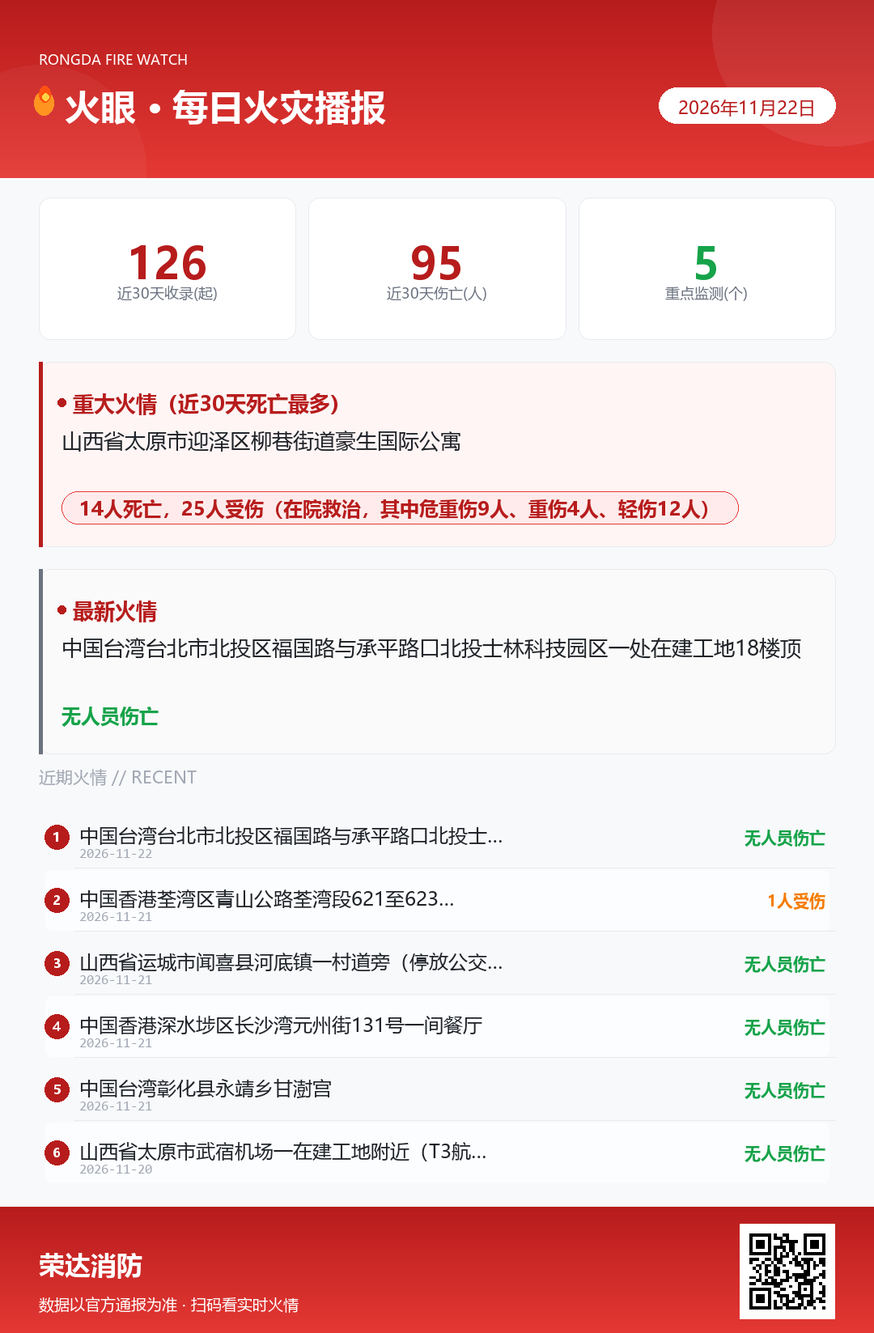
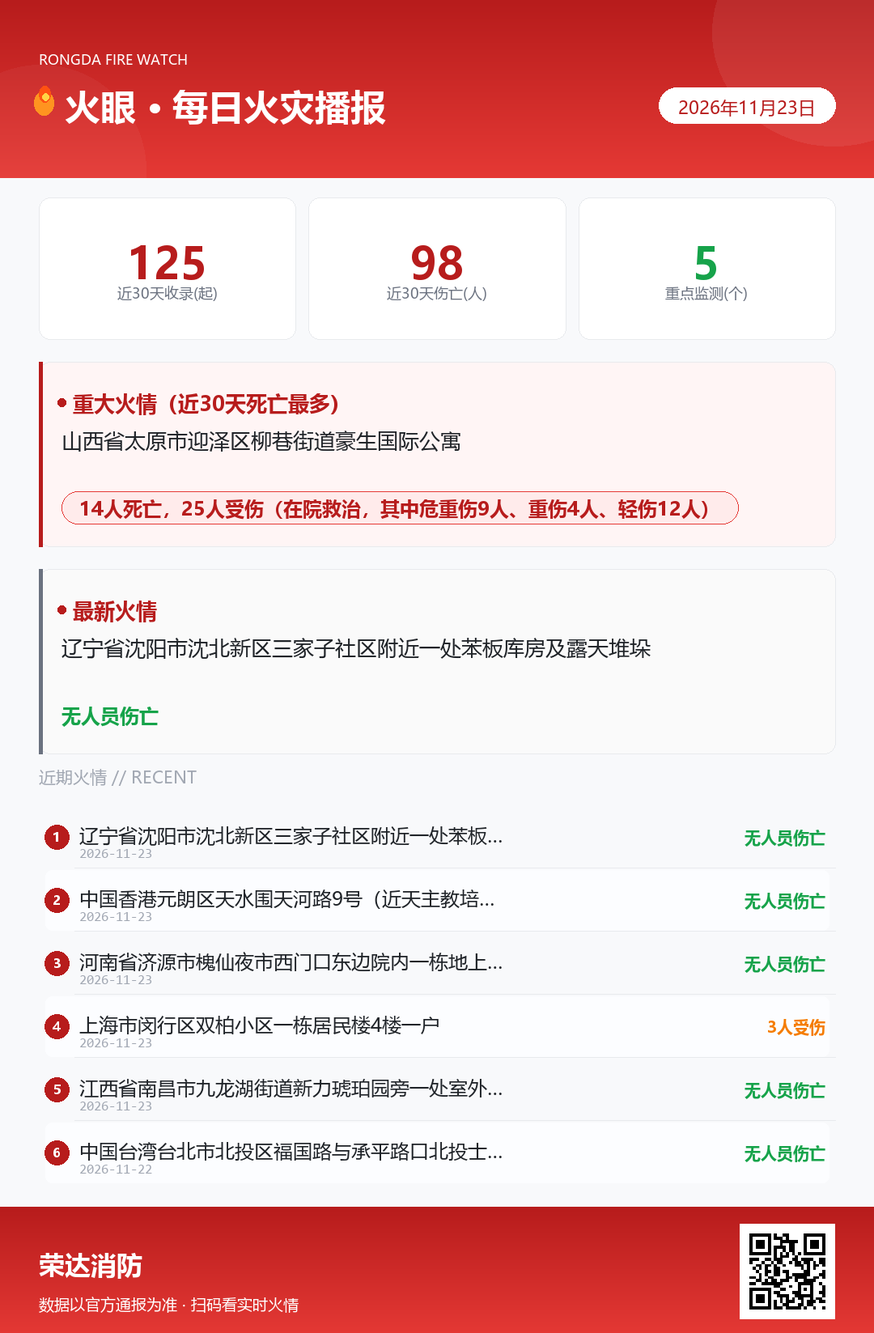
fire-daily-brief 2026-11-24 10:52 roll

diff --git a/index.html b/index.html
@@ -435,15 +435,15 @@
 <!-- ============ DATA（每日自动更新：由自动化脚本重写此对象） ============ -->
 <script id="brief-data" type="application/json">
 {
-  "date": "2026年11月22日",
-  "compileTime": "2026-11-23 10:34",
+  "date": "2026年11月23日",
+  "compileTime": "2026-11-24 09:17",
   "source": "AI 联网检索 · 各地消防救援机构官方通报及权威媒体转载",
   "range": "滚动更新 · 近 30 天",
   "stats": {
     "noReportRegions": 5,
     "rangeLabel": "近30天"
   },
-  "jiangxi": "有官方通报（7·12 南昌居民楼楼道电动车「飞线充电」火情、7·29 上饶玉山县居民楼液化气罐泄漏爆炸1死1伤、8·2 赣州南康工业园工厂刨花房起火、8·2 南昌某小区7楼阳台烟头引燃杂物起火（无伤亡）、8·4 吉安民房柴房火灾、8·6 萍乡一小轿车停放家门口起火（无伤亡）、8·13 吉安市赣江上一船只起火（疑因电池，无伤亡）、8·12 赣州大余花生麸自燃、8·16 南昌小区杂物间起火、8·18 南昌青云谱「网红」麻将馆自动麻将机电气线路故障起火（无伤亡、8·30 宜春经开区江西远东电池电芯老化检测车间火灾（无人员伤亡，1个厂房设备部分受损）、8·28 南昌一餐厅后厨起火（消防自动喷淋系统及时启动扑灭，无人员伤亡）、8·28 吉安市泰和县一民房（祭祀用火不慎，过火约90平方米，无人员伤亡）、9·3 赣州南康区一工厂刨花房突然起火（无人员伤亡，园区微型消防站与员工协力扑救，约5分钟消防到场扑灭）、9·10 萍乡市芦溪县银河镇某村牛棚火灾（疑烟头引燃，无伤亡）、9·10 莲花县坊楼镇某村茶厂操作间起火（用火不当，无伤亡）、9·11 萍乡市开发区福田镇某村居民柴房起火（用火不慎，无伤亡）、9·12 宜春丰城市河洲街道太阳社区杨打垅村一民房火灾（造成3人死亡、1人受伤，宜春市政府已成立“9·12”较大火灾事故调查组）、9·17 南昌市青山湖区顺外路一辆半挂货车起火（凌晨4时40分左右，车上装载硬纸类易燃物，消防到场约半小时扑灭，无人员伤亡）、9·27 赣州大余县南安镇一民房火灾（楼道堆放杂物致2人被困，架拉梯救出，无人员伤亡）、10·8 九江市一处草纸批发店仓库火灾（违规电焊焊渣引燃堆放草纸，无伤亡，过火近300㎡）、10·7 九江市武宁县一公司厂房火灾（工人电焊熔渣引燃橡胶传送带，动火作业人员未持证上岗，被罚2000元，无伤亡）、10·10 南昌市青山湖区东华大道428号一厂区室外独立电动车停车棚起火（无人员伤亡）、10·15 江西某小区一6楼民房客厅起火（一家4口被困，退回主卧关门堵缝避险，全部获救，无伤亡）、10·15 鹰潭市一商铺二楼起火（无人员伤亡，消防到场出水降温排烟）、10·18 鹰潭市一自建民房旁厨房起火（村民烧柴火做饭中途离开、柴火无人看管，厨房被烧毁，无人员伤亡）、10·21 赣州市南康区一辆街边停放三轮车被楼上掉落烟头引燃车斗纸箱起火（路过行人用灭火器扑灭，无人员伤亡）、11·10 景德镇市浮梁县西湖乡一农户木质结构房屋起火（无人员伤亡，邻省安徽祁门县新安镇应急抢险队深夜跨省驰援，与祁门消防救援力量协同扑灭）、11·15 赣州市南康区一家具厂车间水帘柜风机起火（员工用灭火器与水带先行扑灭，无人员伤亡，11·20 赣州消防发布））",
+  "jiangxi": "有官方通报（7·12 南昌居民楼楼道电动车「飞线充电」火情、7·29 上饶玉山县居民楼液化气罐泄漏爆炸1死1伤、8·2 赣州南康工业园工厂刨花房起火、8·2 南昌某小区7楼阳台烟头引燃杂物起火（无伤亡）、8·4 吉安民房柴房火灾、8·6 萍乡一小轿车停放家门口起火（无伤亡）、8·13 吉安市赣江上一船只起火（疑因电池，无伤亡）、8·12 赣州大余花生麸自燃、8·16 南昌小区杂物间起火、8·18 南昌青云谱「网红」麻将馆自动麻将机电气线路故障起火（无伤亡、8·30 宜春经开区江西远东电池电芯老化检测车间火灾（无人员伤亡，1个厂房设备部分受损）、8·28 南昌一餐厅后厨起火（消防自动喷淋系统及时启动扑灭，无人员伤亡）、8·28 吉安市泰和县一民房（祭祀用火不慎，过火约90平方米，无人员伤亡）、9·3 赣州南康区一工厂刨花房突然起火（无人员伤亡，园区微型消防站与员工协力扑救，约5分钟消防到场扑灭）、9·10 萍乡市芦溪县银河镇某村牛棚火灾（疑烟头引燃，无伤亡）、9·10 莲花县坊楼镇某村茶厂操作间起火（用火不当，无伤亡）、9·11 萍乡市开发区福田镇某村居民柴房起火（用火不慎，无伤亡）、9·12 宜春丰城市河洲街道太阳社区杨打垅村一民房火灾（造成3人死亡、1人受伤，宜春市政府已成立“9·12”较大火灾事故调查组）、9·17 南昌市青山湖区顺外路一辆半挂货车起火（凌晨4时40分左右，车上装载硬纸类易燃物，消防到场约半小时扑灭，无人员伤亡）、9·27 赣州大余县南安镇一民房火灾（楼道堆放杂物致2人被困，架拉梯救出，无人员伤亡）、10·8 九江市一处草纸批发店仓库火灾（违规电焊焊渣引燃堆放草纸，无伤亡，过火近300㎡）、10·7 九江市武宁县一公司厂房火灾（工人电焊熔渣引燃橡胶传送带，动火作业人员未持证上岗，被罚2000元，无伤亡）、10·10 南昌市青山湖区东华大道428号一厂区室外独立电动车停车棚起火（无人员伤亡）、10·15 江西某小区一6楼民房客厅起火（一家4口被困，退回主卧关门堵缝避险，全部获救，无伤亡）、10·15 鹰潭市一商铺二楼起火（无人员伤亡，消防到场出水降温排烟）、10·18 鹰潭市一自建民房旁厨房起火（村民烧柴火做饭中途离开、柴火无人看管，厨房被烧毁，无人员伤亡）、10·21 赣州市南康区一辆街边停放三轮车被楼上掉落烟头引燃车斗纸箱起火（路过行人用灭火器扑灭，无人员伤亡）、11·10 景德镇市浮梁县西湖乡一农户木质结构房屋起火（无人员伤亡，邻省安徽祁门县新安镇应急抢险队深夜跨省驰援，与祁门消防救援力量协同扑灭）、11·15 赣州市南康区一家具厂车间水帘柜风机起火（员工用灭火器与水带先行扑灭，无人员伤亡，11·20 赣州消防发布）、11·23 南昌市九龙湖街道新力琥珀园旁一室外垃圾堆垛起火（燃烧废弃塑料纸壳，过火350平方米，无人员伤亡，南昌市消防救援局《火情通报》；网传“3名消防员牺牲”经核实为虚假信息））",
   "megacities": [
     {
       "name": "北京市",
@@ -451,7 +451,7 @@
     },
     {
       "name": "上海市",
-      "status": "有官方通报（7·28/7·31 多起居民楼起火、8·4 闵行中春路单位建筑起火、8·7 虹口新市南路小区非机动车起火、8·10 浦东万安街路边车辆起火、8·17 G2京沪高速面包车起火、8·19 青浦盈浦街道居民顶楼起火、8·19 G1503绕城高速集卡追尾起火、8·28 浦东张江松涛路单位实验室起火、8·30 松江车墩镇松南城善德苑小区居民家中起火（无伤亡、9·1 凌晨浦东新区一社区居民楼6楼火情（2人送医）、9·1 杨浦新江湾城时代花园小区居民楼起火（无伤亡；9·1 松江区明中苑小区室外非机动车停车区域多辆非机动车烧毁（无伤亡、9·7 杨浦区殷行路近军工路小区垃圾房起火（无伤亡）、9·18 松江区泗泾镇方泗公路一辆新能源车追尾后起火燃烧（无人员伤亡）、9·28 浦东新区高青路一小区室外非机动车停车棚起火，多辆非机动车烧毁（无伤亡）、9·29 静安区天通庵路一工地内仓库起火（无伤亡）、9·29 崧泽高架平板牵引车起火（无伤亡）、10·9 宝山区上海大学南区学生公寓一女生宿舍起火（无人员伤亡）、10·9 青浦区城中西路一居民楼顶楼民宅起火（无人员伤亡报告））、10·12 杨浦区翔殷路791弄兰花新村小区一居民家中起火（2人送医，情况稳定、10·14 徐汇区天平街道一老式居民楼凌晨火情（充电宝故障热失控，无伤亡）、10·15 嘉定区沪宜公路近双丁路一处室外垃圾堆起火（燃烧垃圾渔网等杂物，无伤亡）、10·16 嘉定区曹安公路近联群路一区域起火（夜间露天区域起火，无伤亡）、10·17 杨浦区控江六村小区底楼一居民家中起火（无伤亡，一辆电动自行车烧毁）、10·17 S1迎宾高速近启航路出口匝道一轿车起火（无伤亡）、10·18 杨浦区殷行路430弄小区居民家中起火（无伤亡，原因调查中）、10·22 普陀区杏山路近梅岭南路一沿街面馆起火（无伤亡，起因调查中）、10·23 宝山区岭南路1288弄岭南雅苑一顶楼复式居民家起火（火势较大，无人员伤亡，原因调查中）、10·24 松江区新育路750弄雅鹿新苑二期小区一居民家起火（底楼住户，无人员伤亡，原因调查中、10·21 奉贤区一小区停车场居民擅自用转接头接新能源汽车充电桩给电动自行车充电引发火灾（充电桩与电动自行车烧损烧毁，无人员伤亡）、10·25 静安区平型关路2199弄小区非机动车停放区域起火（6辆电动自行车烧毁，无人员伤亡））、10·28 北横通道东向西转中环匝道口一面包车车头起火（晚高峰，临时封一根车道、后方拥堵约4公里，无伤亡）、10·28 G1503 绕城高速内圈近重固立交处一装载纸板小货车行驶中起火（车内2人及时下车无伤，18时许处置完毕，无伤亡）、10·31 嘉定区温宿路城中路桃园小区一底楼居民家起火（外立面2楼至顶楼熏黑、多户玻璃碎裂与空调外机烧毁，无人员伤亡，原因调查中）、11·01 闵行区金都路都会路路口一轿车撞绿化带侧翻后车头起火（车内人员及时撤出，无伤亡，原因调查中）、11·02 浦东新区定水路50弄西镇小区某号3楼一户居民家起火（窗玻璃烧碎坠地，3楼至顶楼外立面与空调外机熏黑，无人员伤亡，原因调查中）、11·02 静安区上海大学延长路校区一处实验室在抢险救援过程中发生爆炸（涉事学生轻微伤、无人死亡，原因调查中）、11·03 嘉定区海波路一公司临时搭建板房起火（燃烧物为板房内堆放杂物和垃圾，无人员伤亡，原因调查中）、11·06 虹口区四达路58弄小区一住宅起火（疑空调外机起火，明火很快被扑灭，无人员伤亡，原因正在调查中、11·08 浦东新区锦绣路近花木路一停车场内单层房屋起火（屋内有明火蹿出、烟雾随高湿空气弥散至周边道路，社区消防站先期铺设水带扑救，无人员伤亡，原因调查中）、11·09 浦东新区万农路附近一种植大棚起火（上午11时许，多辆消防车到场铺设水带出水扑救、明火很快被扑灭，无人员伤亡，原因调查中、11·13 浦东新区浦电路一沿街楼栋起火（无人员伤亡，原因调查中）、11·13 S20外环内圈近顾戴路一轿车起火（车辆烧毁，无人员伤亡，原因调查中）、11·14 闵行区虹梅南路高架锦梅路上匝道处一车辆起火（清晨6时30分许，无人员伤亡，原因调查中）、11·20 浦东新区申江南路近坦直路一沿街建筑起火（无人员伤亡，原因调查中）、11·20 杨浦区控江路1670弄14号2楼一居民家起火（无人员伤亡，原因调查中））"
+      "status": "有官方通报（7·28/7·31 多起居民楼起火、8·4 闵行中春路单位建筑起火、8·7 虹口新市南路小区非机动车起火、8·10 浦东万安街路边车辆起火、8·17 G2京沪高速面包车起火、8·19 青浦盈浦街道居民顶楼起火、8·19 G1503绕城高速集卡追尾起火、8·28 浦东张江松涛路单位实验室起火、8·30 松江车墩镇松南城善德苑小区居民家中起火（无伤亡、9·1 凌晨浦东新区一社区居民楼6楼火情（2人送医）、9·1 杨浦新江湾城时代花园小区居民楼起火（无伤亡；9·1 松江区明中苑小区室外非机动车停车区域多辆非机动车烧毁（无伤亡、9·7 杨浦区殷行路近军工路小区垃圾房起火（无伤亡）、9·18 松江区泗泾镇方泗公路一辆新能源车追尾后起火燃烧（无人员伤亡）、9·28 浦东新区高青路一小区室外非机动车停车棚起火，多辆非机动车烧毁（无伤亡）、9·29 静安区天通庵路一工地内仓库起火（无伤亡）、9·29 崧泽高架平板牵引车起火（无伤亡）、10·9 宝山区上海大学南区学生公寓一女生宿舍起火（无人员伤亡）、10·9 青浦区城中西路一居民楼顶楼民宅起火（无人员伤亡报告））、10·12 杨浦区翔殷路791弄兰花新村小区一居民家中起火（2人送医，情况稳定、10·14 徐汇区天平街道一老式居民楼凌晨火情（充电宝故障热失控，无伤亡）、10·15 嘉定区沪宜公路近双丁路一处室外垃圾堆起火（燃烧垃圾渔网等杂物，无伤亡）、10·16 嘉定区曹安公路近联群路一区域起火（夜间露天区域起火，无伤亡）、10·17 杨浦区控江六村小区底楼一居民家中起火（无伤亡，一辆电动自行车烧毁）、10·17 S1迎宾高速近启航路出口匝道一轿车起火（无伤亡）、10·18 杨浦区殷行路430弄小区居民家中起火（无伤亡，原因调查中）、10·22 普陀区杏山路近梅岭南路一沿街面馆起火（无伤亡，起因调查中）、10·23 宝山区岭南路1288弄岭南雅苑一顶楼复式居民家起火（火势较大，无人员伤亡，原因调查中）、10·24 松江区新育路750弄雅鹿新苑二期小区一居民家起火（底楼住户，无人员伤亡，原因调查中、10·21 奉贤区一小区停车场居民擅自用转接头接新能源汽车充电桩给电动自行车充电引发火灾（充电桩与电动自行车烧损烧毁，无人员伤亡）、10·25 静安区平型关路2199弄小区非机动车停放区域起火（6辆电动自行车烧毁，无人员伤亡））、10·28 北横通道东向西转中环匝道口一面包车车头起火（晚高峰，临时封一根车道、后方拥堵约4公里，无伤亡）、10·28 G1503 绕城高速内圈近重固立交处一装载纸板小货车行驶中起火（车内2人及时下车无伤，18时许处置完毕，无伤亡）、10·31 嘉定区温宿路城中路桃园小区一底楼居民家起火（外立面2楼至顶楼熏黑、多户玻璃碎裂与空调外机烧毁，无人员伤亡，原因调查中）、11·01 闵行区金都路都会路路口一轿车撞绿化带侧翻后车头起火（车内人员及时撤出，无伤亡，原因调查中）、11·02 浦东新区定水路50弄西镇小区某号3楼一户居民家起火（窗玻璃烧碎坠地，3楼至顶楼外立面与空调外机熏黑，无人员伤亡，原因调查中）、11·02 静安区上海大学延长路校区一处实验室在抢险救援过程中发生爆炸（涉事学生轻微伤、无人死亡，原因调查中）、11·03 嘉定区海波路一公司临时搭建板房起火（燃烧物为板房内堆放杂物和垃圾，无人员伤亡，原因调查中）、11·06 虹口区四达路58弄小区一住宅起火（疑空调外机起火，明火很快被扑灭，无人员伤亡，原因正在调查中、11·08 浦东新区锦绣路近花木路一停车场内单层房屋起火（屋内有明火蹿出、烟雾随高湿空气弥散至周边道路，社区消防站先期铺设水带扑救，无人员伤亡，原因调查中）、11·09 浦东新区万农路附近一种植大棚起火（上午11时许，多辆消防车到场铺设水带出水扑救、明火很快被扑灭，无人员伤亡，原因调查中、11·13 浦东新区浦电路一沿街楼栋起火（无人员伤亡，原因调查中）、11·13 S20外环内圈近顾戴路一轿车起火（车辆烧毁，无人员伤亡，原因调查中）、11·14 闵行区虹梅南路高架锦梅路上匝道处一车辆起火（清晨6时30分许，无人员伤亡，原因调查中）、11·20 浦东新区申江南路近坦直路一沿街建筑起火（无人员伤亡，原因调查中）、11·20 杨浦区控江路1670弄14号2楼一居民家起火（无人员伤亡，原因调查中）、11·23 闵行区双柏小区一居民楼4楼住户起火（1名老人被困空调外机平台获救，3人受伤、暂无生命危险，原因调查中））"
     },
     {
       "name": "广州市",
@@ -463,13 +463,13 @@
     }
   ],
   "case": {
-    "date": "2026-11-22",
-    "location": "中国台湾台北市北投区福国路与承平路口北投士林科技园区一处在建工地18楼顶",
-    "category": "其他",
-    "summary": "11月22日晚8时37分，台北市消防局获报北投士林科技园区福国路、承平路口一处在建工地顶楼发生火警，火烟直窜天际。消防人员到场后抢救并疏散现场人员。台北市消防局累计出动5辆指挥车、27辆消防车、2辆救护车，共102名救灾人员及1架无人机，并请求新北市消防局支援70米云梯车及3辆水库车。火势一度由18楼顶向下延烧至16楼，消防人员部署水线阻绝扩大，晚间11时10分将火扑灭。环保局同步启动空气品质监测，以模式模拟烟雾飘散方向，影响范围含台北市北投、士林及新北市五股、芦洲、淡水、八里，提醒附近民众尽量减少外出。火灾未造成人员伤亡，起火原因待调查厘清。",
+    "date": "2026-11-23",
+    "location": "辽宁省沈阳市沈北新区三家子社区附近一处苯板库房及露天堆垛",
+    "category": "仓储/物流",
+    "summary": "11月23日13时48分，沈阳市消防救援支队指挥中心接到报警，沈北新区三家子社区附近发生火灾。支队指挥中心立即调派灭火救援力量赶赴现场处置。经侦察，现场为苯板（聚苯乙烯泡沫板）库房和露天堆垛起火，火势已得到有效控制，未波及周边居民楼、商铺等建筑。现场无人员伤亡，起火原因及财产损失仍在调查统计中。",
     "casualty": "无人员伤亡",
-    "cause": "起火原因待调查厘清（台北市消防局）",
-    "src": "中央社（2026-11-22，记者黄丽芸、萧博文、杨淑闵，据台北市消防局通报及台北市政府新闻讯息）"
+    "cause": "起火原因调查中（沈阳市消防救援支队）",
+    "src": "沈阳消防火情通报（2026-11-23 14:56，沈阳市消防救援支队指挥中心）"
   },
   "tips": [
     "立即清理家中及楼道囤积杂物、神位香烛远离可燃物，独居老人家庭重点上门排查——近30天住宅致死多因杂物阴燃：香港黄大仙11·15单位杂物堆至天花板、消防循烟头或香烛引燃方向调查致1死1伤约300人疏散，天水围11·07香薰点燃杂物致67岁户主死亡。",
@@ -488,6 +488,51 @@
     "媒体转载内容均注明原始官方来源。"
   ],
   "history": [
+    {
+      "date": "2026-11-23",
+      "location": "辽宁省沈阳市沈北新区三家子社区附近一处苯板库房及露天堆垛",
+      "category": "仓储/物流",
+      "summary": "11月23日13时48分，沈阳市消防救援支队指挥中心接到报警，沈北新区三家子社区附近发生火灾。支队指挥中心立即调派灭火救援力量赶赴现场处置。经侦察，现场为苯板（聚苯乙烯泡沫板）库房和露天堆垛起火，火势已得到有效控制，未波及周边居民楼、商铺等建筑。现场无人员伤亡，起火原因及财产损失仍在调查统计中。",
+      "casualty": "无人员伤亡",
+      "cause": "起火原因调查中（沈阳市消防救援支队）",
+      "src": "沈阳消防火情通报（2026-11-23 14:56，沈阳市消防救援支队指挥中心）"
+    },
+    {
+      "date": "2026-11-23",
+      "location": "中国香港元朗区天水围天河路9号（近天主教培圣中学对开）一处露天杂物堆放点",
+      "category": "其他",
+      "summary": "11月23日下午1时39分，警方接报天水围天河路9号、近天主教培圣中学对开有胶箱及木板起火冒烟。消防到场后7分钟内将火救熄，火警中无人受伤。起火位置附近有大量白色发泡胶箱及杂物，火势一度猛烈并冒出黑烟；有两名途人在消防车赶到前手持灭火筒协助扑救。经初步调查，相信因有未熄灭的烟头点燃杂物肇祸。",
+      "casualty": "无人员伤亡",
+      "cause": "初步调查相信为未熄灭烟头点燃杂物（警方及消防初步调查）",
+      "src": "香港01（2026-11-23，据警方及消防初步调查）"
+    },
+    {
+      "date": "2026-11-23",
+      "location": "河南省济源市槐仙夜市西门口东边院内一栋地上四层砖混商业楼一层家居商铺",
+      "category": "商场/市场",
+      "summary": "11月23日7时54分，槐仙夜市西门口东边院内冒烟。济源市消防救援局立即调派辖区消防救援力量赶赴现场，8时01分力量到场。经侦察，起火建筑为地上四层砖混商业楼一层某家居商铺，过火面积约20平方米，燃烧物质为床上用品等纺织物。9时07分处置完毕，无人员伤亡，周边多家店铺外立面被明火熏黑，火灾原因正在调查中。",
+      "casualty": "无人员伤亡",
+      "cause": "火灾原因正在调查中（济源市消防救援局）",
+      "src": "济源市消防救援局《火情通报》（2026-11-23 9时45分发布，经新浪财经、腾讯新闻转载）"
+    },
+    {
+      "date": "2026-11-23",
+      "location": "上海市闵行区双柏小区一栋居民楼4楼一户",
+      "category": "住宅/民房",
+      "summary": "11月23日上午7时许，闵行区双柏小区内一栋居民楼4楼突发火情，冒出的浓烟很快惊动周边居民。起火初期，楼内一名男性年长者和一名中年女子自行从起火楼层脱困，两人不同程度受浓烟呛伤和体表灼伤；火势与浓烟封住单元逃生通道，一名年迈女性来不及撤离，爬到4楼室外空调外机平台上挥手呼救。辖区消防救援人员到场后一边扑救一边架设救援装备，将被困老人安全转移至楼下。现场明火很快被扑灭，3名伤者均已在医院接受进一步检查和治疗，暂无生命危险，起火原因由相关部门进一步调查中。",
+      "casualty": "3人受伤（2人浓烟呛伤及体表灼伤、1名老人被困获救，均在医院检查，暂无生命危险）",
+      "cause": "起火原因相关部门正在进一步调查中",
+      "src": "新民晚报（2026-11-24，记者徐驰，现场采访报道）"
+    },
+    {
+      "date": "2026-11-23",
+      "location": "江西省南昌市九龙湖街道新力琥珀园旁一处室外垃圾堆垛",
+      "category": "其他",
+      "summary": "11月23日1时29分，南昌市九龙湖街道新力琥珀园旁室外垃圾堆垛发生火情，消防救援力量第一时间到场处置，5时19分火势被扑灭。此次火情燃烧主要物质为废弃塑料、纸壳等，过火面积350平方米，无人员伤亡。南昌市消防救援局当日发布《火情通报》，并提示广大网民不信谣、不传谣，不擅自传播未经证实的现场信息；此前网络流传的“起火致3名消防队员牺牲”经核实为虚假信息。",
+      "casualty": "无人员伤亡",
+      "cause": "火灾原因正在调查中（南昌市消防救援局）",
+      "src": "南昌市消防救援局《火情通报》（2026-11-23 10:58，南昌消防发布）；江西网络辟谣、凤凰网江西（2026-11-24，辟谣“3名消防员牺牲”）"
+    },
     {
       "date": "2026-11-22",
       "location": "中国台湾台北市北投区福国路与承平路口北投士林科技园区一处在建工地18楼顶",
